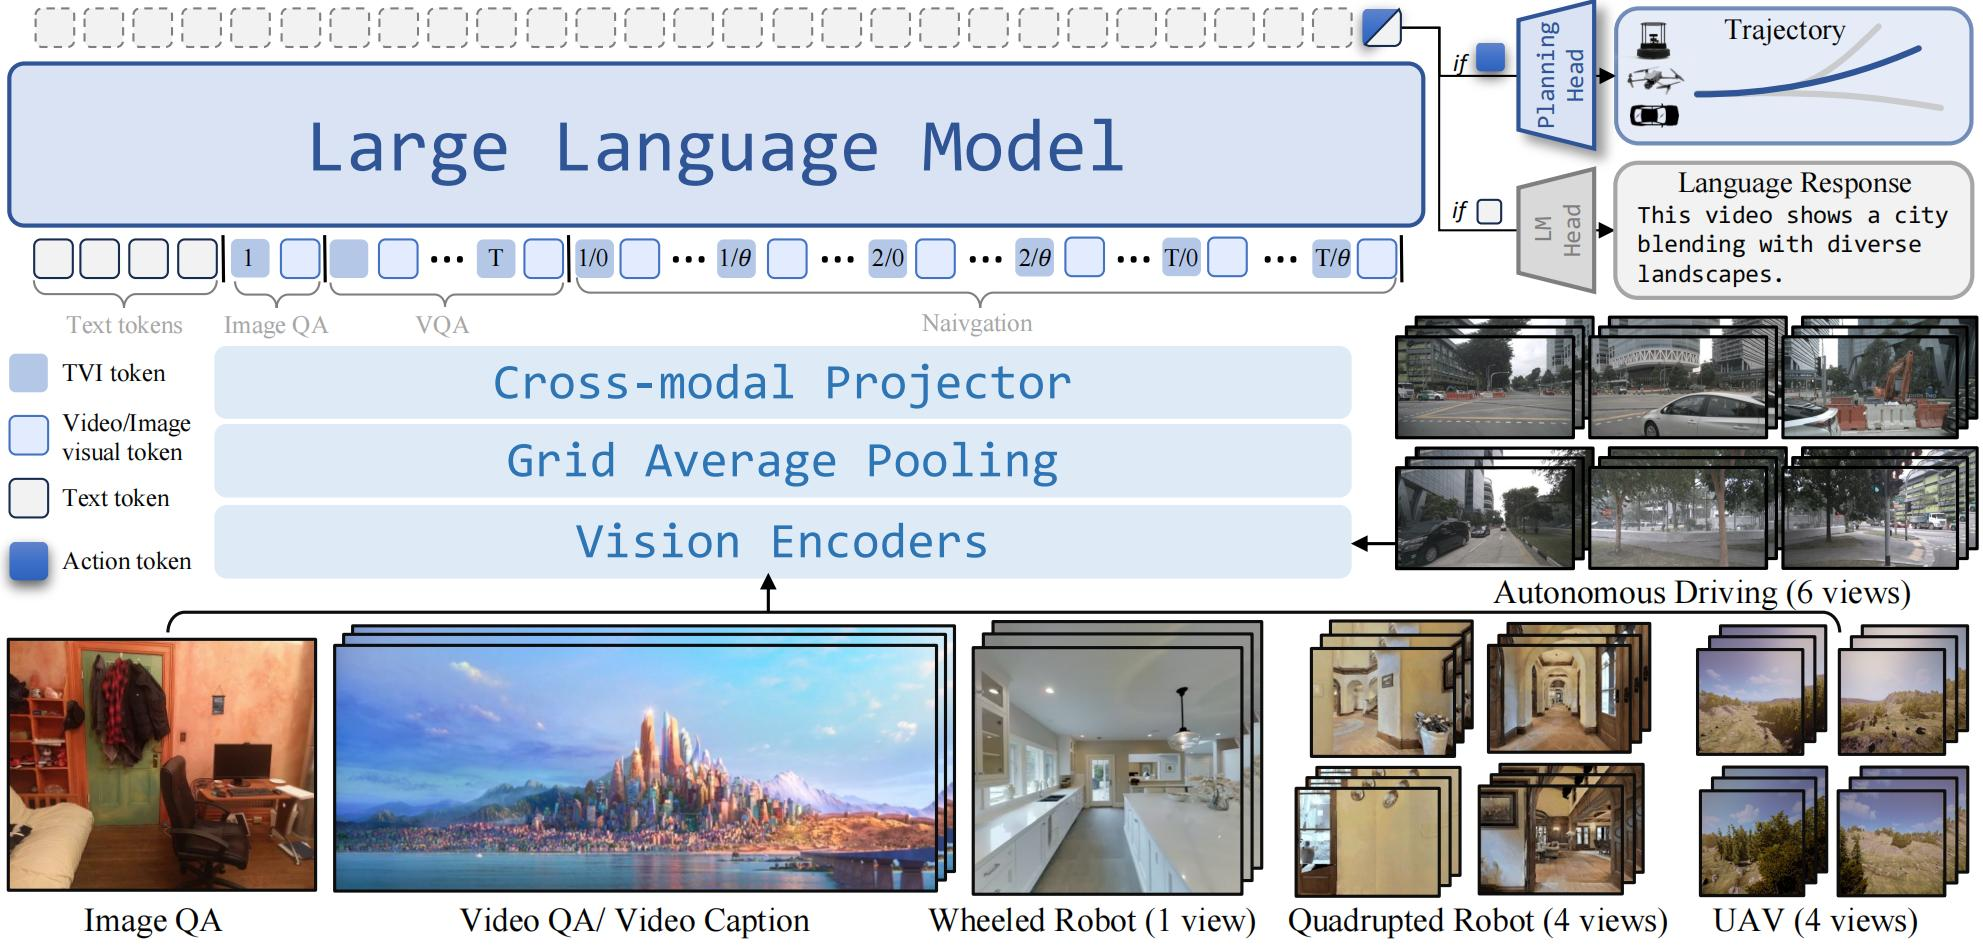
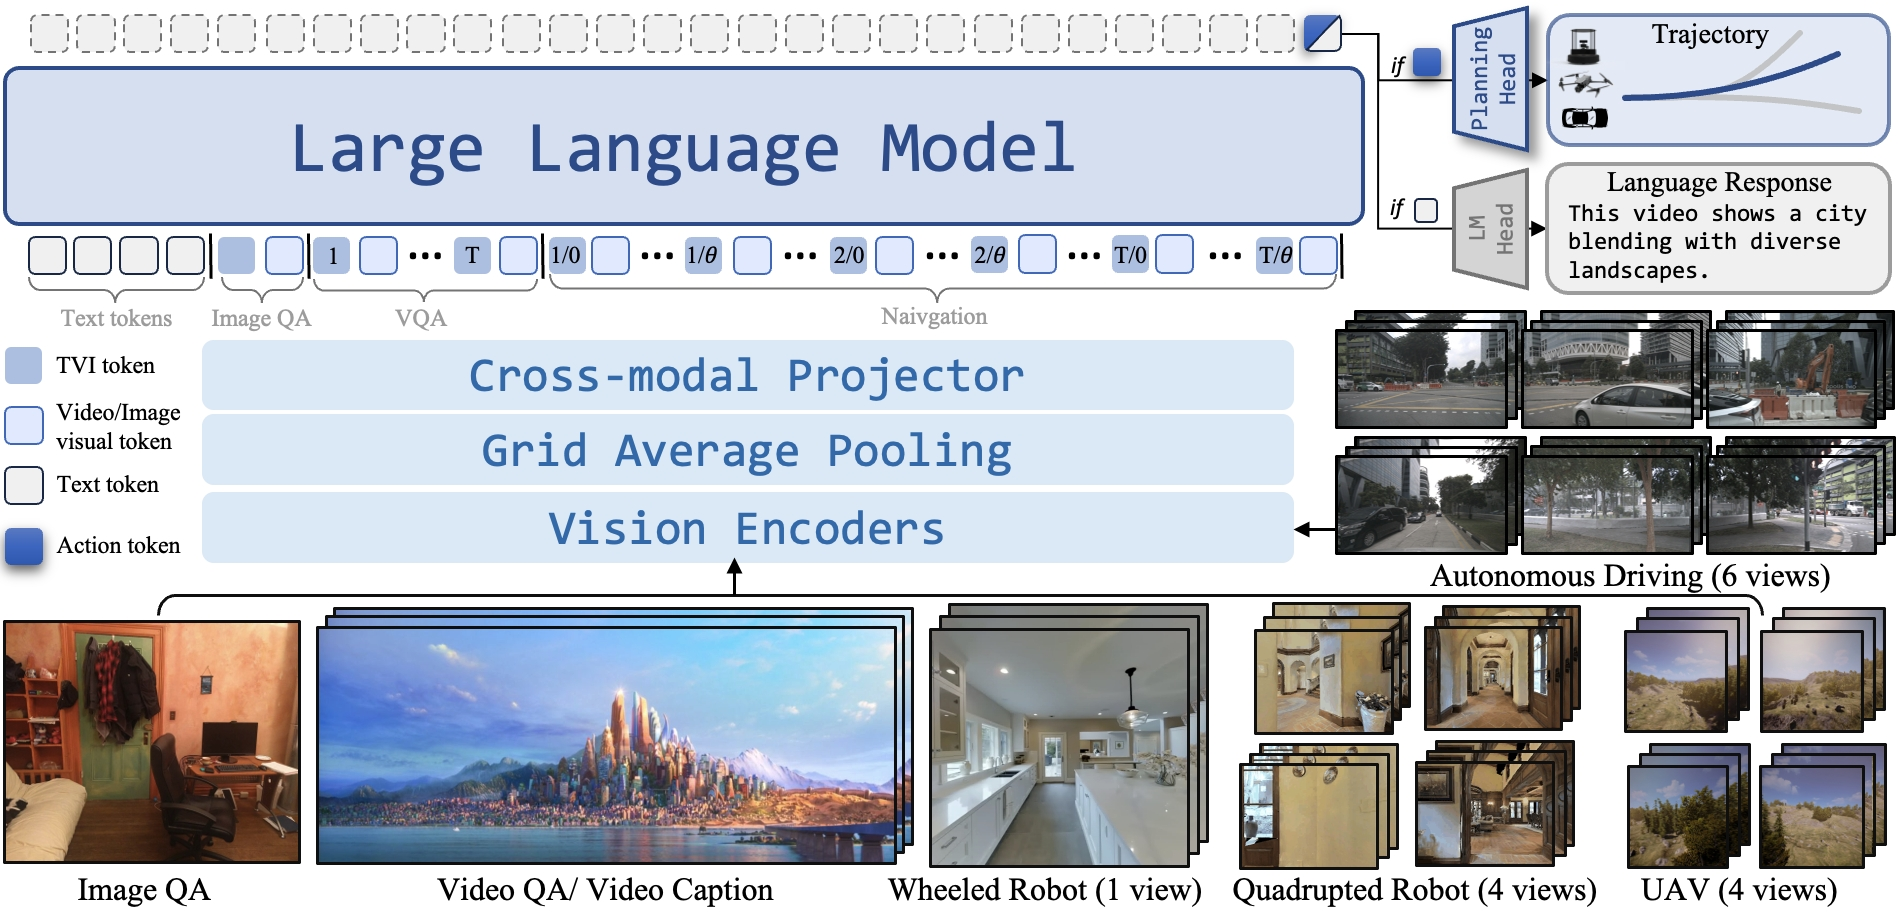
update pipeline and text

Changed region(s): [[0.0, 0.0, 1.0, 1.0], [0.9937, 0.1842, 1.0, 0.2149]]

diff --git a/index.html b/index.html
@@ -768,7 +768,7 @@
 
 
                         <p>
-                            we deploy our model on a remote server equipped with a GeForce RTX 5090 GPU and use the Internet for communication between the server and the client (which includes the controller and embodiments). Given a user instruction, the robots compress their current observations and transmit them to the server. The server then processes both the observations and the instruction to output a trajectory. This trajectory is subsequently processed by the local planner of each individual robot, which sends appropriate commands (\textit{e.g.}, velocity or joint controls) to drive the robot.
+                            we deploy our model on a remote server equipped with a GeForce RTX 5090 GPU and use the Internet for communication between the server and the client (which includes the controller and embodiments). Given a user instruction, the robots compress their current observations and transmit them to the server. The server then processes both the observations and the instruction to output a trajectory. This trajectory is subsequently processed by the local planner of each individual robot, which sends appropriate commands (e.g., velocity or joint controls) to drive the robot.
                         </p>    
                     </div>
                 </div>
